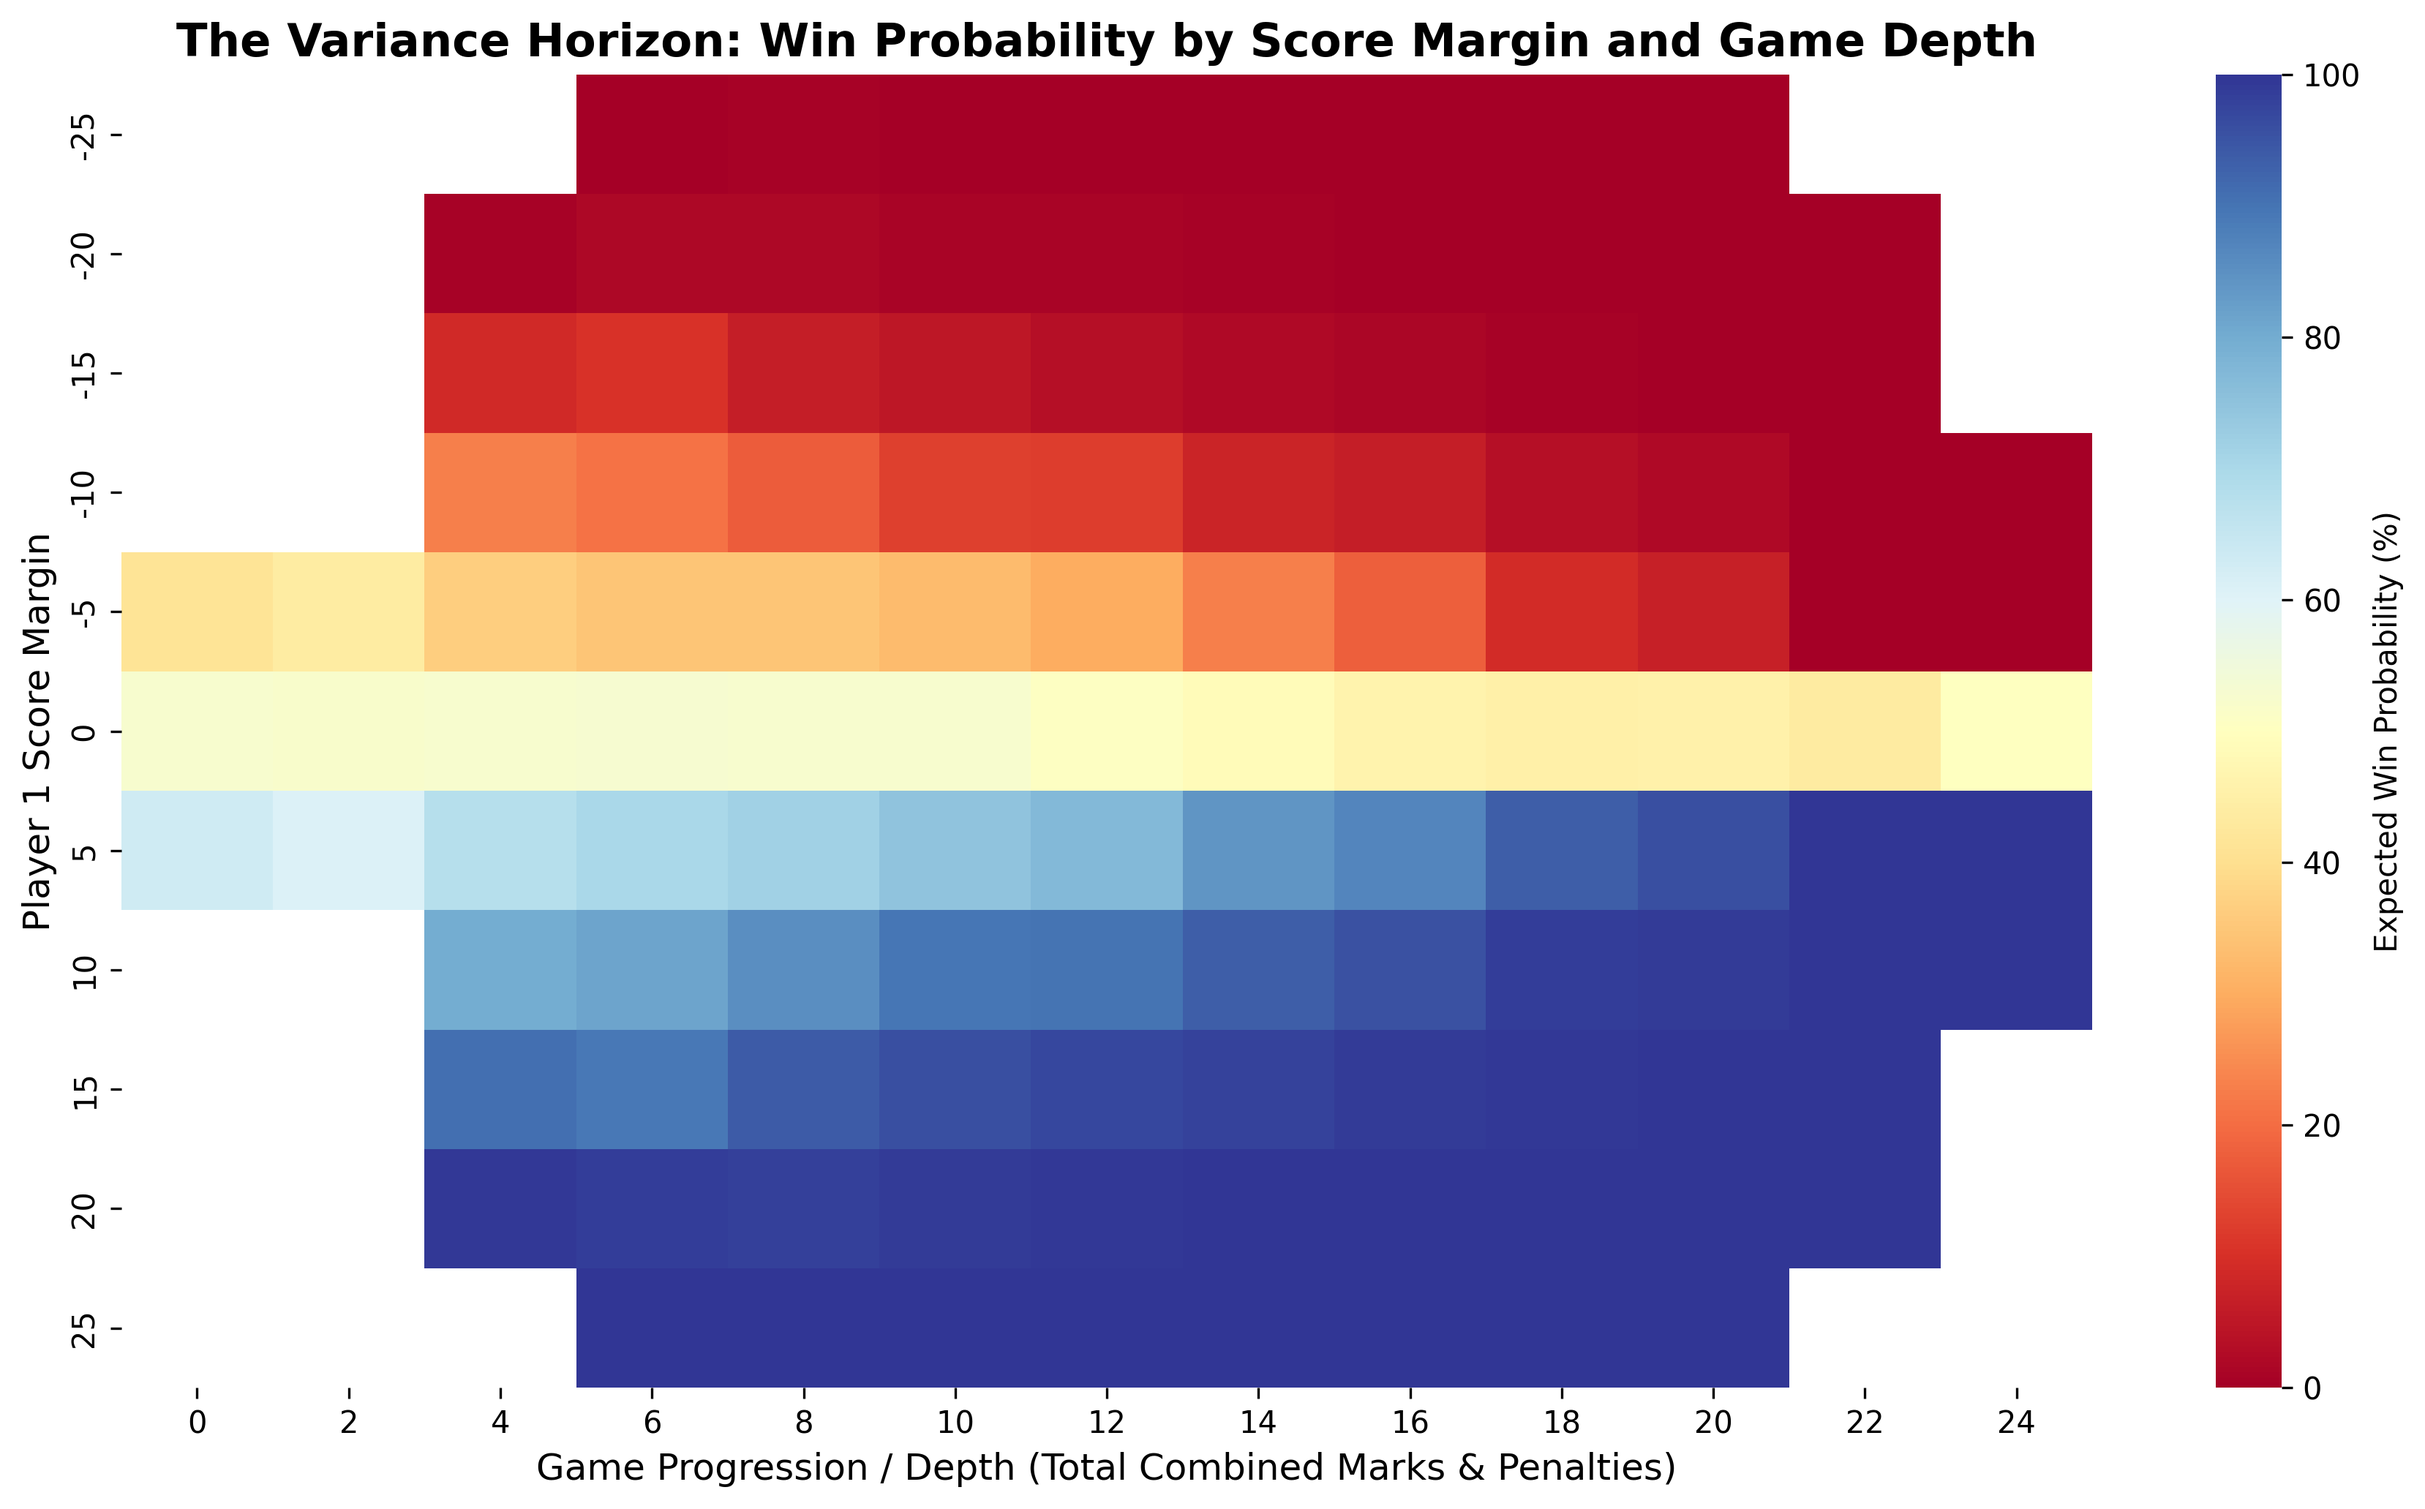
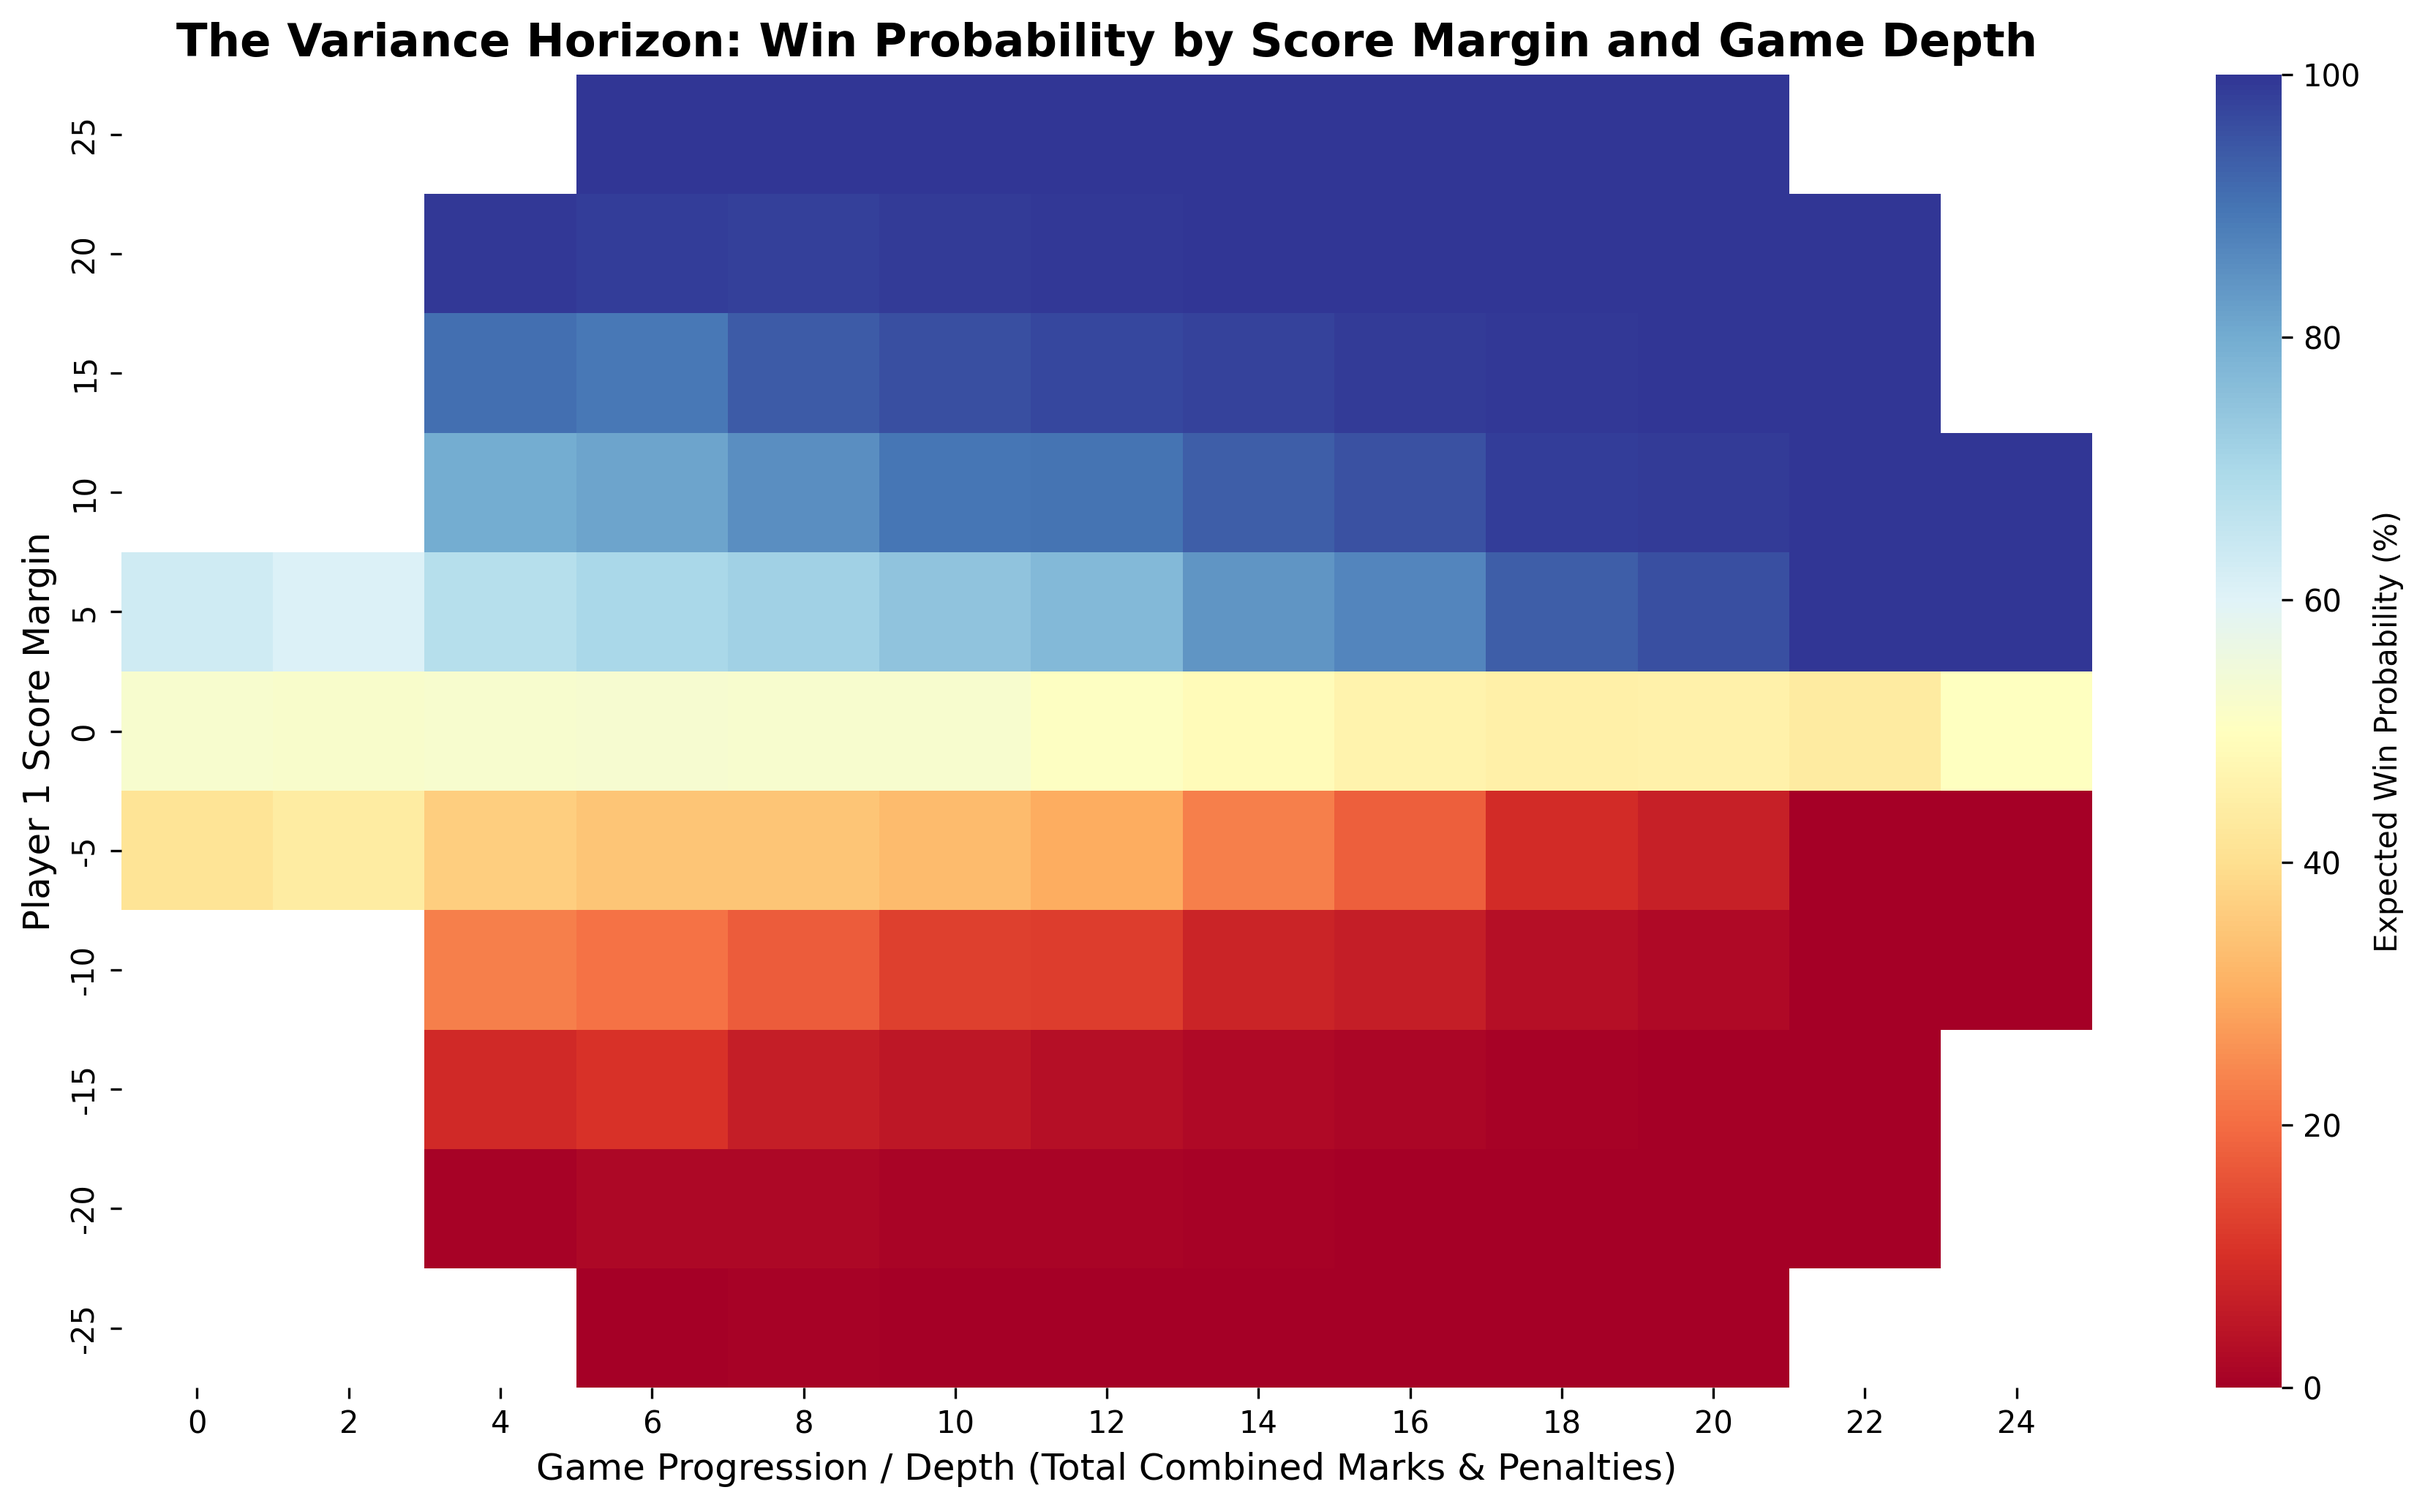
behavioral metrics

diff --git a/analysis/behavorial_metrics.py b/analysis/behavorial_metrics.py
@@ -1,0 +1,179 @@
+"""
+analysis/behavioral_metrics.py
+
+Evaluates the strategic behavior of the different Qwixx AI models.
+By simulating self-play, this script tracks the terminal states to calculate:
+1. Average Penalties Taken (Defensive Stalling)
+2. Average Marks Skipped (Offensive Rushing)
+
+Outputs a dual-axis bar chart to visually compare the risk profiles of the models.
+"""
+
+import numpy as np
+import os
+import matplotlib.pyplot as plt
+import multiprocessing as mp
+import random
+import time
+
+from core.environment import MiniQwixxEnv, ROW_DETAILS_ARRAY
+from core.state_encoder import decode_state
+from core.constants import WHITE_ACTIONS, COLOR_ACTIONS
+from analysis.evaluator import (
+    AGENT_TO_ID, init_tournament_worker, evaluate_state,
+    get_nash_probs, fast_choice
+)
+
+def _behavior_chunk(args):
+    """
+    Simulates self-play games for a specific agent and records terminal behaviors.
+    """
+    num_games, agent_str = args
+    stats = {'skips': 0, 'penalties': 0}
+    agent_id = AGENT_TO_ID[agent_str]
+
+    M_p1 = np.empty((3, 3), dtype=np.float32)
+    M_p2 = np.empty((3, 3), dtype=np.float32)
+    best_c_matrix = [[None]*3 for _ in range(3)]
+
+    for _ in range(num_games):
+        state = 0
+        active_player = 1
+
+        while True:
+            p1_r, p1_b, p1_p, p2_r, p2_b, p2_p = decode_state(state)
+            
+            # 1. Terminal Check
+            if p1_p >= 3 or p2_p >= 3 or ((p1_r >= 11 or p2_r >= 11) and (p1_b >= 11 or p2_b >= 11)):
+                
+                # Inline function to calculate skips mathematically via the DAG mapping
+                def calc_skips(r_id, b_id):
+                    s = 0
+                    for row_id in (r_id, b_id):
+                        idx, count = ROW_DETAILS_ARRAY[row_id]
+                        if idx != -1: # If row is not empty
+                            # Locked rows (ID >= 11) have a +1 phantom point bonus in the count
+                            actual_marks = count - 1 if row_id >= 11 else count
+                            # Skips = Total boxes passed - Actual boxes marked
+                            s += (idx + 1) - actual_marks
+                    return s
+
+                stats['skips'] += calc_skips(p1_r, p1_b) + calc_skips(p2_r, p2_b)
+                stats['penalties'] += p1_p + p2_p
+                break
+
+            # 2. Chance Node
+            dice = {'W1': random.randint(1, 3), 'W2': random.randint(1, 3), 'R': random.randint(1, 3), 'B': random.randint(1, 3)}
+            next_idx = 1 if active_player == 1 else 0
+
+            # 3. Payoff Matrices
+            for w1_idx, a_w1 in enumerate(WHITE_ACTIONS):
+                for w2_idx, a_w2 in enumerate(WHITE_ACTIONS):
+                    best_c = None
+                    best_val = -9999.0 if active_player == 1 else 9999.0
+
+                    for c in COLOR_ACTIONS:
+                        ns, term = MiniQwixxEnv.step(state, active_player, dice, a_w1, a_w2, c)
+                        val = evaluate_state(ns, next_idx, term, agent_id, active_player)
+
+                        if active_player == 1 and val > best_val:
+                            best_val = val; best_c = c
+                        elif active_player == 2 and val < best_val:
+                            best_val = val; best_c = c
+
+                    best_c_matrix[w1_idx][w2_idx] = best_c
+                    final_ns, final_term = MiniQwixxEnv.step(state, active_player, dice, a_w1, a_w2, best_c)
+
+                    M_p1[w1_idx, w2_idx] = evaluate_state(final_ns, next_idx, final_term, agent_id, 1)
+                    M_p2[w1_idx, w2_idx] = evaluate_state(final_ns, next_idx, final_term, agent_id, 2)
+
+            p1_probs, _ = get_nash_probs(M_p1)
+            _, p2_probs = get_nash_probs(M_p2)
+
+            idx_w1 = fast_choice(p1_probs)
+            idx_w2 = fast_choice(p2_probs)
+
+            state, _ = MiniQwixxEnv.step(state, active_player, dice, WHITE_ACTIONS[idx_w1], WHITE_ACTIONS[idx_w2], best_c_matrix[idx_w1][idx_w2])
+            active_player = 2 if active_player == 1 else 1
+
+    return stats
+
+
+def run_behavioral_analysis():
+    agents = ['SOLO', 'SCORE', 'HYBRID_5', 'HYBRID_10', 'HYBRID_25', 'HYBRID_50', 'WIN']
+    display_names = ['Solo\n(Raw Pts)', 'Score\n(0 Bonus)', 'Hybrid\n(5 Bonus)', 'Hybrid\n(10 Bonus)', 
+                     'Hybrid\n(25 Bonus)', 'Hybrid\n(50 Bonus)', 'Win Prob\n(Inf Bonus)']
+
+    games_per_agent = 100000 
+    cores = mp.cpu_count()
+
+    avg_skips = []
+    avg_penalties = []
+
+    print(f"\n" + "="*75)
+    print(f" BEHAVIORAL ANALYSIS: {games_per_agent} SELF-PLAY GAMES PER AGENT")
+    print("="*75)
+
+    for agent in agents:
+        print(f"Simulating self-play for [{agent}]...")
+        
+        # Partition workload across cores
+        games_per_core = [games_per_agent // cores] * cores
+        for i in range(games_per_agent % cores): games_per_core[i] += 1
+        args = [(n, agent) for n in games_per_core]
+
+        with mp.Pool(processes=cores, initializer=init_tournament_worker, initargs=([agent],)) as pool:
+            results = pool.map(_behavior_chunk, args)
+
+        total_skips = sum(r['skips'] for r in results)
+        total_penalties = sum(r['penalties'] for r in results)
+
+        # Divide by (games * 2) because there are 2 players generating stats in each game
+        avg_skips.append(total_skips / (games_per_agent * 2))
+        avg_penalties.append(total_penalties / (games_per_agent * 2))
+
+        print(f"  -> Skips: {avg_skips[-1]:.2f}/player | Penalties: {avg_penalties[-1]:.2f}/player")
+
+    # ==========================================
+    # DUAL-AXIS BAR CHART PLOTTING
+    # ==========================================
+    print("\nGenerating Behavioral Bar Chart...")
+    os.makedirs('plots', exist_ok=True)
+    
+    x = np.arange(len(agents))
+    width = 0.35
+
+    fig, ax1 = plt.subplots(figsize=(12, 7))
+
+    # Left Axis: Marks Skipped (Blue)
+    color1 = '#1f77b4'
+    rects1 = ax1.bar(x - width/2, avg_skips, width, label='Marks Skipped', color=color1, edgecolor='black', zorder=3)
+    ax1.set_ylabel('Average Marks Skipped per Player', fontsize=12, fontweight='bold', color=color1)
+    ax1.tick_params(axis='y', labelcolor=color1)
+    ax1.set_xticks(x)
+    ax1.set_xticklabels(display_names, rotation=45, ha='right', fontweight='bold', fontsize=11)
+    ax1.grid(axis='y', linestyle='--', alpha=0.7, zorder=0)
+
+    # Right Axis: Penalties Taken (Red)
+    ax2 = ax1.twinx()
+    color2 = '#d62728'
+    rects2 = ax2.bar(x + width/2, avg_penalties, width, label='Penalties Taken', color=color2, edgecolor='black', zorder=3)
+    ax2.set_ylabel('Average Penalties Taken per Player', fontsize=12, fontweight='bold', color=color2)
+    ax2.tick_params(axis='y', labelcolor=color2)
+
+    # Title and Legend
+    plt.title('Qwixx AI Behavior: Offensive Rushing vs. Defensive Stalling', fontsize=16, fontweight='bold', pad=15)
+    
+    # Combine legends from both axes
+    lines, labels = ax1.get_legend_handles_labels()
+    lines2, labels2 = ax2.get_legend_handles_labels()
+    ax2.legend(lines + lines2, labels + labels2, loc='upper center', bbox_to_anchor=(0.5, -0.15), ncol=2, fontsize=12, frameon=False)
+
+    plt.tight_layout()
+    plt.savefig('plots/behavioral_metrics_comparison.png', dpi=300, bbox_inches='tight')
+    plt.close()
+    
+    print("Successfully saved to plots/behavioral_metrics_comparison.png")
+
+if __name__ == '__main__':
+    run_behavioral_analysis()

diff --git a/analysis/variance_horizon.py b/analysis/variance_horizon.py
@@ -69,7 +69,6 @@ def run_deep_analysis():
     plt.ylabel('Player 1 Score Margin', fontsize=12)
     
     # Formatting ticks
-    ax.invert_yaxis() 
     plt.tight_layout()
     plt.savefig('plots/variance_horizon.png', dpi=300, bbox_inches='tight')
     print("\nSUCCESS! Heatmap saved to 'plots/variance_horizon.png'")
